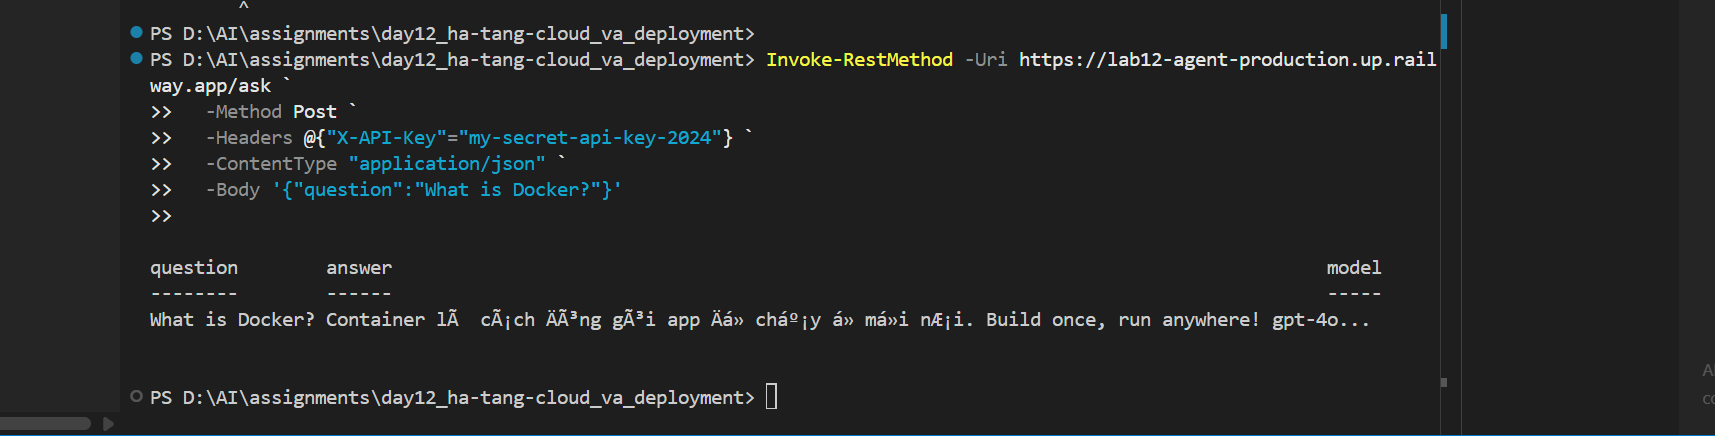
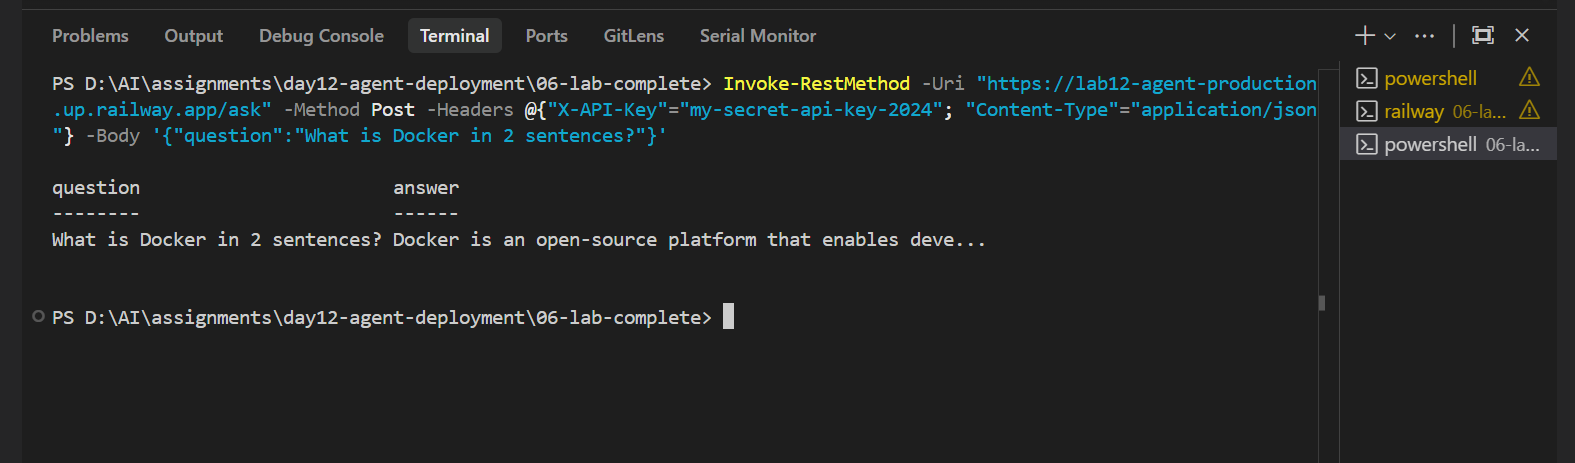
Replace mock LLM with real OpenAI API + update screenshots

diff --git a/README.md b/README.md
@@ -156,7 +156,7 @@ day12-agent-deployment/
 ├── 06-lab-complete/                # Lab 12: Production-ready agent
 │   └── (full project kết hợp tất cả)
 │
-└── utils/                          # Mock LLM dùng chung (không cần API key)
+└── utils/                          # Mock LLM dùng cho lesson 01-05 (demo offline)
 ```
 
 ---
@@ -188,7 +188,10 @@ python 3.11+
 docker & docker compose
 ```
 
-Mỗi folder có `requirements.txt` riêng. Không cần API key thật — các ví dụ dùng **mock LLM** để chạy offline.
+Mỗi folder có `requirements.txt` riêng.
+
+- **Lesson 01–05** (folder `01-` đến `05-`): dùng mock LLM — học concept deployment không cần API key.
+- **Lab 06 (`06-lab-complete/`)** — bài nộp production: gọi **OpenAI API thật** (`gpt-4o-mini`), yêu cầu `OPENAI_API_KEY`.
 
 ---
 

diff --git a/DEPLOYMENT.md b/DEPLOYMENT.md
@@ -20,7 +20,7 @@ curl -X POST https://lab12-agent-production.up.railway.app/ask \
   -H "X-API-Key: my-secret-api-key-2024" \
   -H "Content-Type: application/json" \
   -d '{"question": "Hello, what is Docker?"}'
-# Expected: {"question":"...","answer":"...","model":"gpt-4o-mini","timestamp":"..."}
+# Expected: {"question":"...","answer":"<câu trả lời thật từ OpenAI gpt-4o-mini>","model":"gpt-4o-mini","timestamp":"..."}
 ```
 
 ### Rate Limit Test
@@ -47,6 +47,9 @@ curl -X POST https://lab12-agent-production.up.railway.app/ask \
 - PORT
 - ENVIRONMENT=production
 - AGENT_API_KEY
+- JWT_SECRET
+- OPENAI_API_KEY (required — agent gọi OpenAI gpt-4o-mini)
+- LLM_MODEL=gpt-4o-mini
 - REDIS_URL (if using Redis add-on)
 - DAILY_BUDGET_USD
 - RATE_LIMIT_PER_MINUTE

diff --git a/MISSION_ANSWERS.md b/MISSION_ANSWERS.md
@@ -161,8 +161,9 @@ railway domain
 curl https://lab12-agent-production.up.railway.app/health
 # Expected: {"status":"ok","uptime_seconds":...,"platform":"Railway",...}
 
-# Ask endpoint
+# Ask endpoint (cần X-API-Key)
 curl https://lab12-agent-production.up.railway.app/ask -X POST \
+  -H "X-API-Key: my-secret-api-key-2024" \
   -H "Content-Type: application/json" \
   -d '{"question": "What is cloud deployment?"}'
 ```
